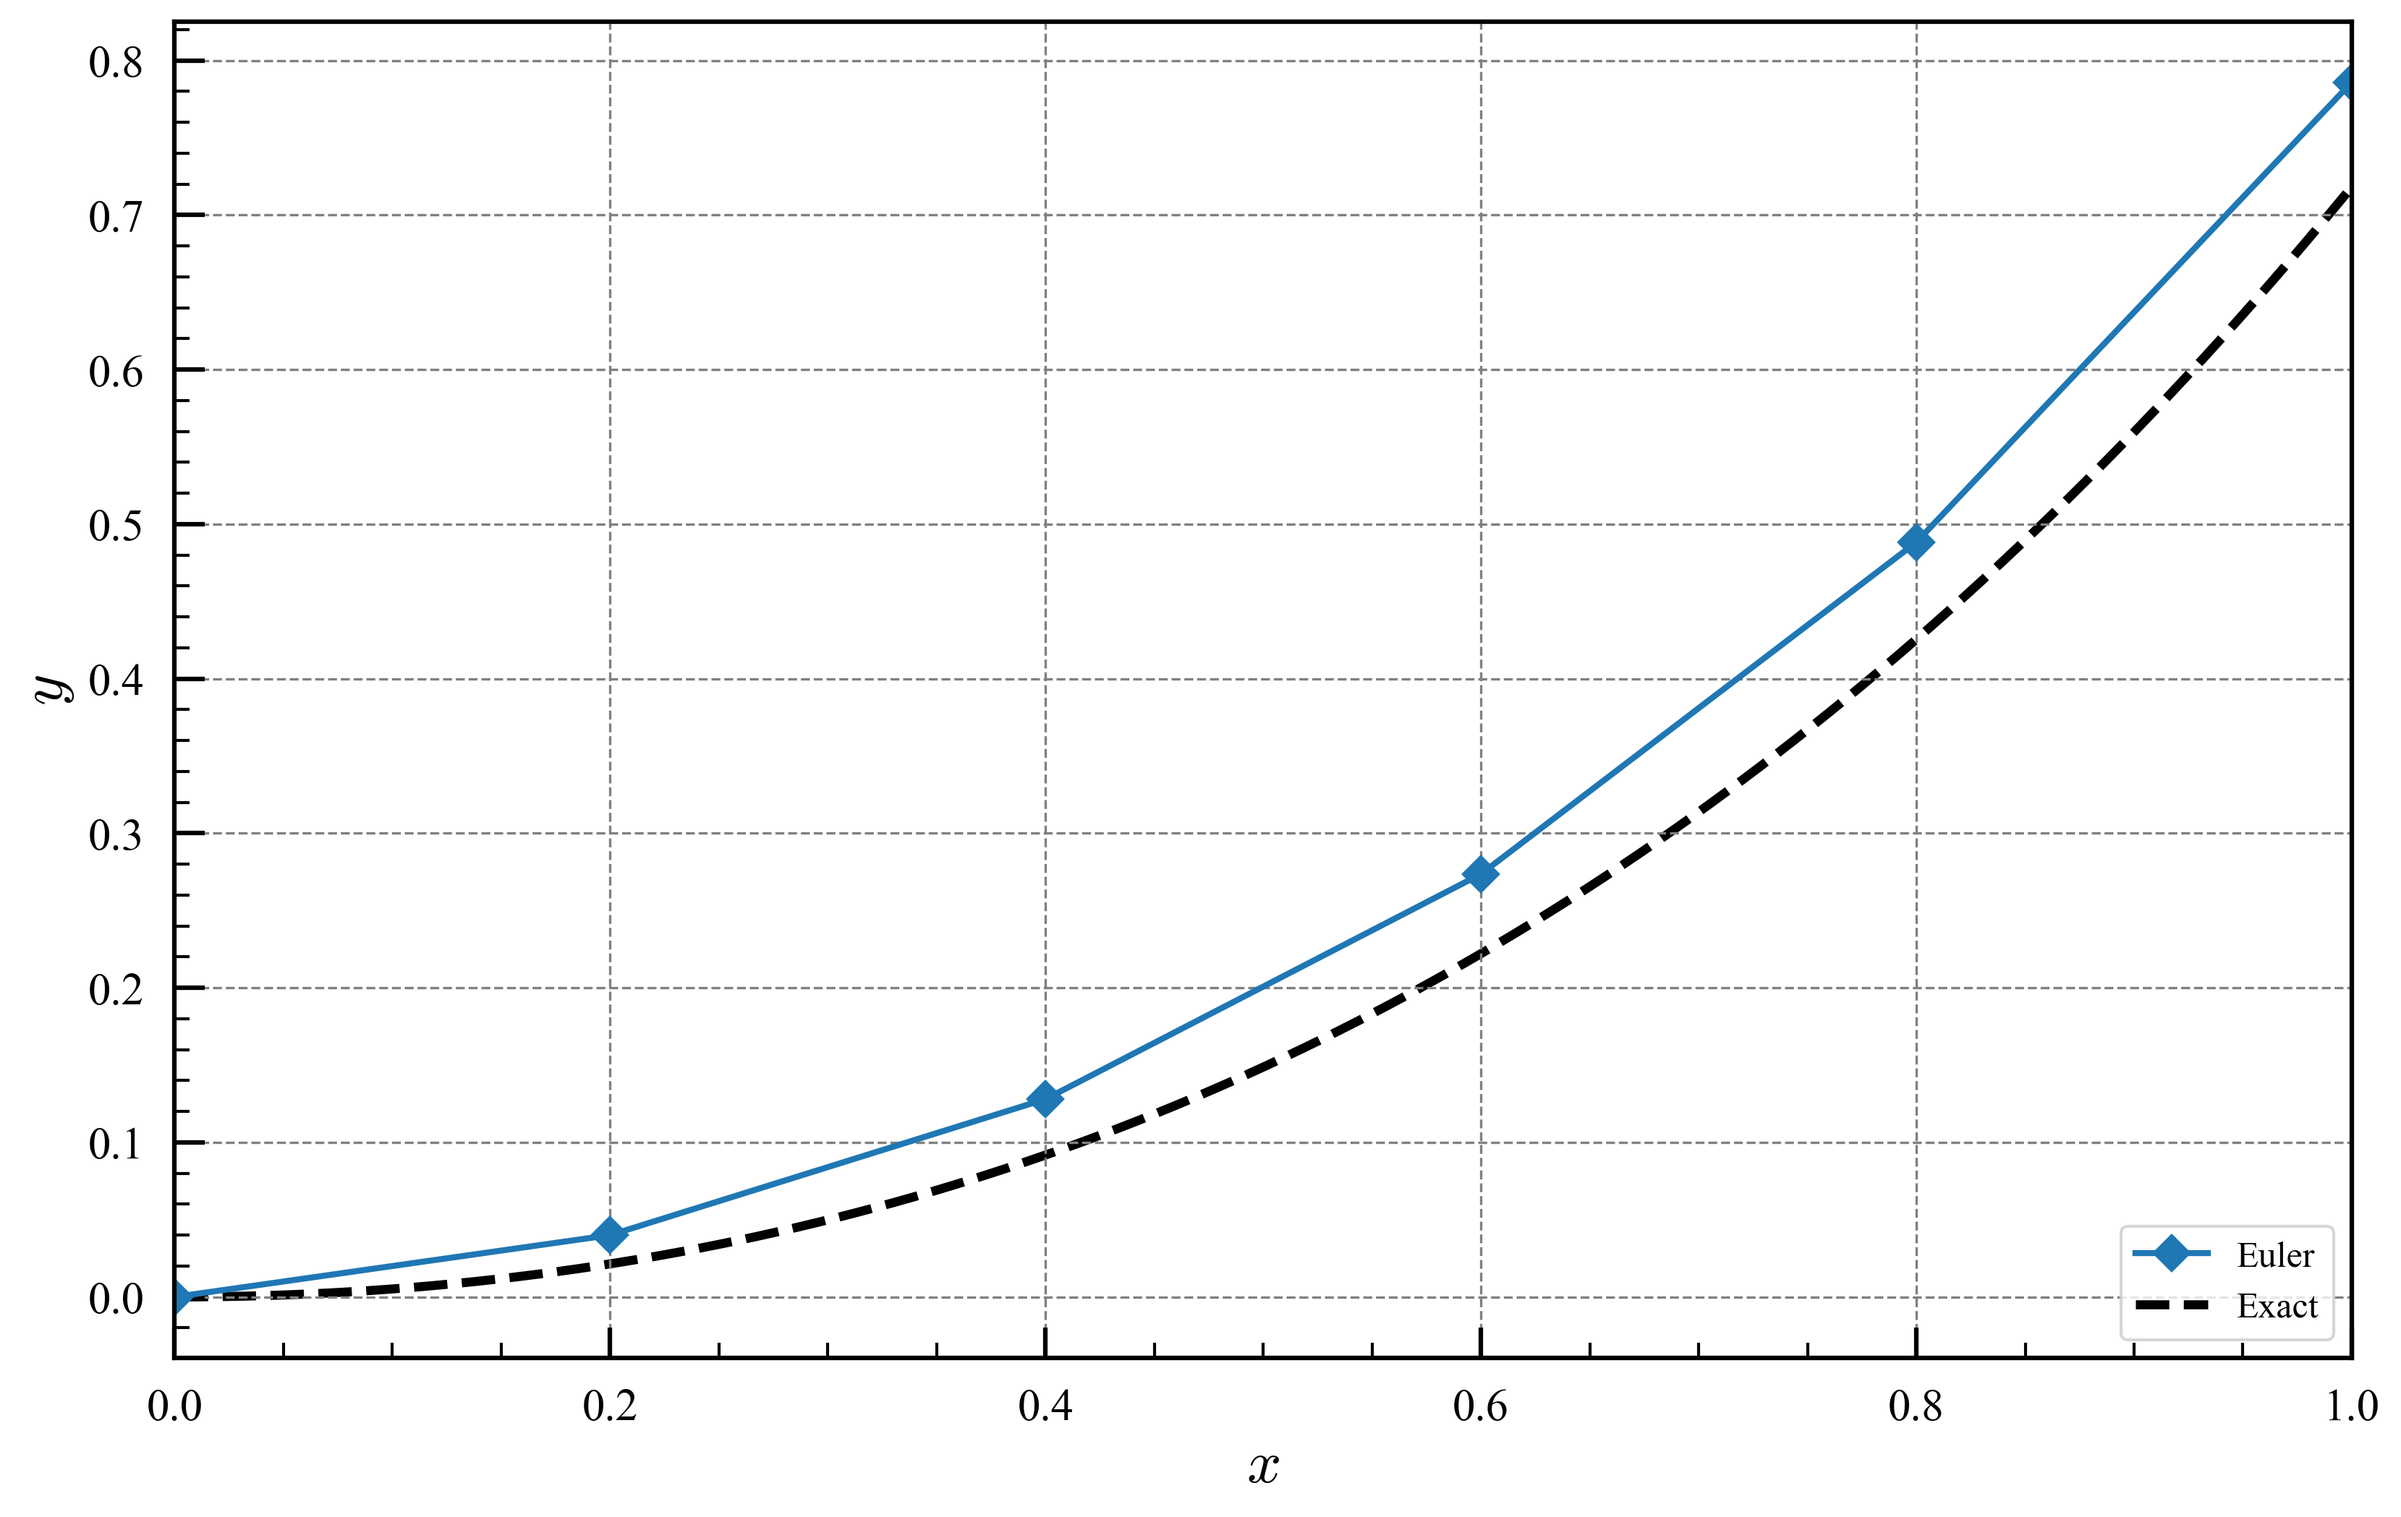
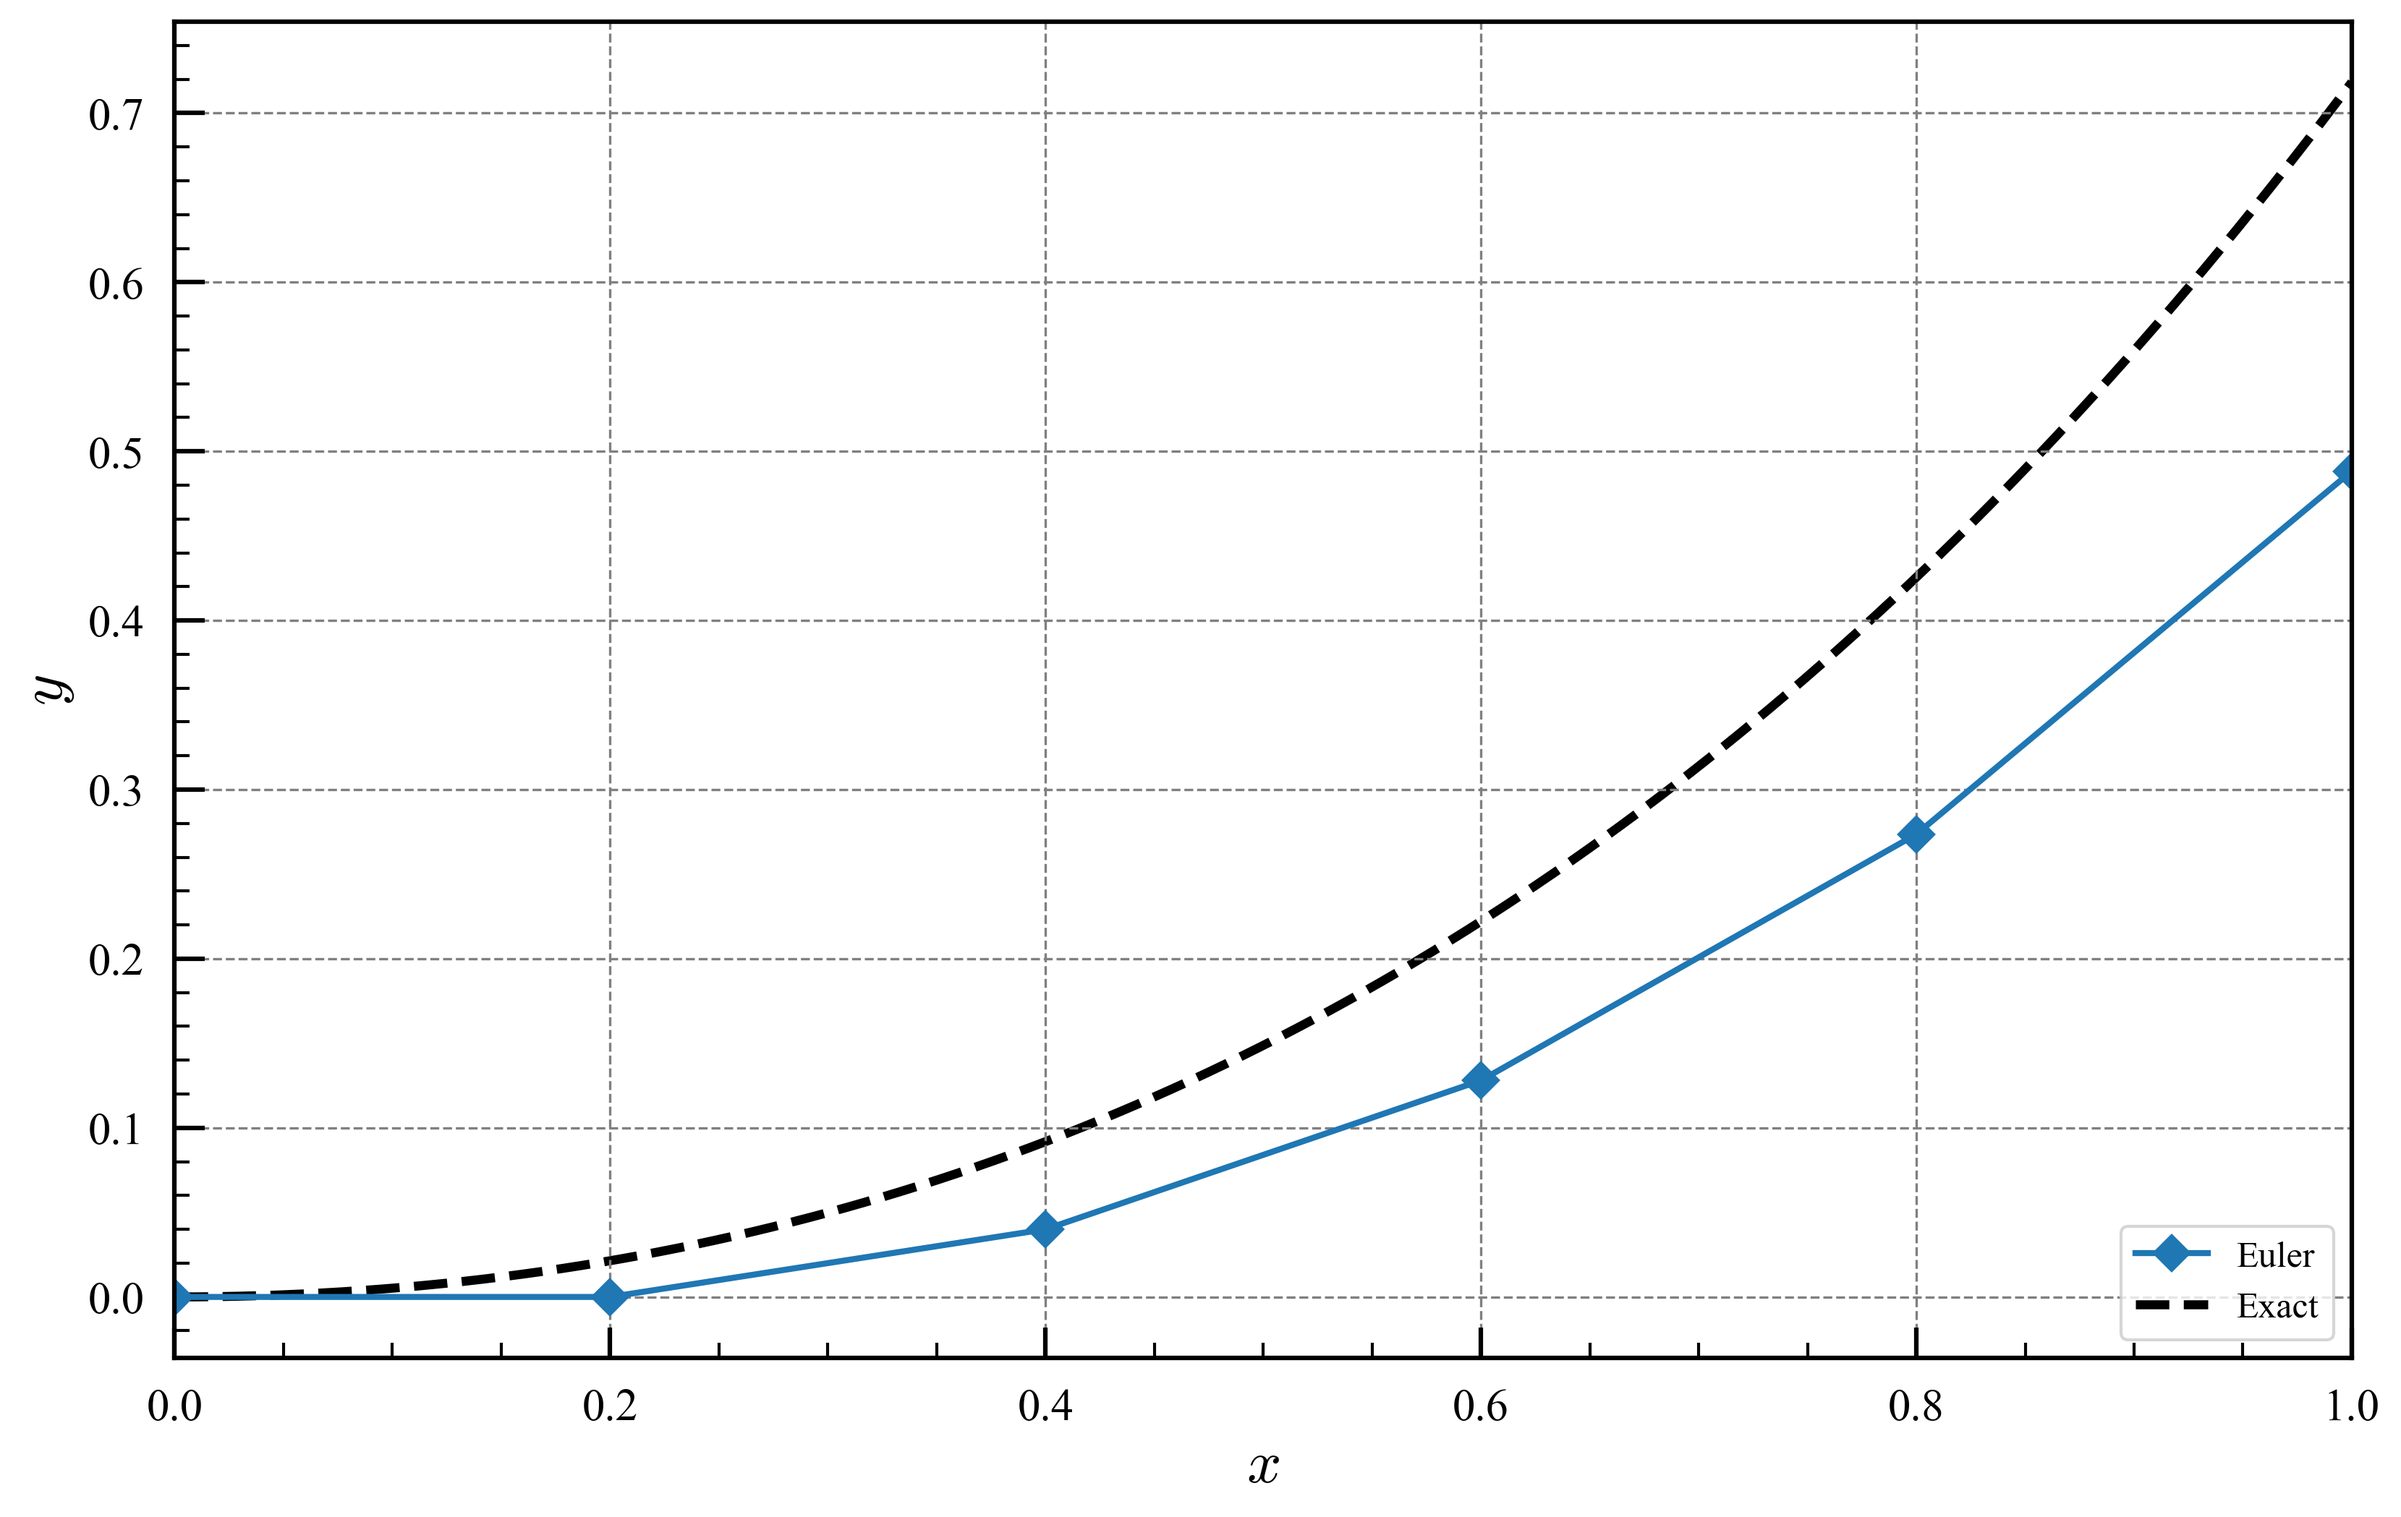
解析解の修正

diff --git a/README.md b/README.md
@@ -2,14 +2,14 @@
 
 ## コンパイル
 [Intel oneAPI](https://www.intel.com/content/www/us/en/developer/tools/oneapi/toolkits.html#gs.hc0791)と[GNU make](https://gnuwin32.sourceforge.net/packages/make.htm)があればコンパイル・実行できます．
-```
+<!-- ```
 make test01
-```
+``` -->
 
-適当なところでクローンして使ってください．
+<!-- 適当なところでクローンして使ってください．
 ```
 git clone https://github.com/ysy307/Lecture.git
-```
+``` -->
 
 
 ## Lecture_01.f90
@@ -750,13 +750,13 @@ N=1000
 漸化式は初期値 $` y(0)=y_0 `$ を用い，$` h = \dfrac{1}{N} `$ とすれば次のようにあらわせる．
 ```math
 \begin{equation*}
-  y(1) = y_0\left(1 + \dfrac{a}{N} + \dfrac{1}{2}\dfrac{a^2}{N^2} \right)^{N-1}
+  y_{i} = y_0\left(1 + \dfrac{a}{N} + \dfrac{1}{2}\dfrac{a^2}{N^2} \right)^{N-1}
 \end{equation*}
 ```
 $` N\rightarrow h `$ とすれば
 ```math
 \begin{equation*}
-  y(1) = y_0\left(1 + ah + \dfrac{1}{2}a^2h^2 \right)^{1/h-1}
+  y_{i} = y_0\left(1 + ah + \dfrac{1}{2}a^2h^2 \right)^{1/h-1}
 \end{equation*}
 ```
 解析解と係数比較すれば
@@ -873,7 +873,7 @@ x   y   Exact
 一般解
 ```math
 \begin{equation*}
-  u(t) = C \exp(2t) - \dfrac{3}{2}t - \dfrac{3}{4}
+  u(t) =7.25\exp(2t - 2) - \dfrac{3}{2}t - \dfrac{3}{4}
 \end{equation*}
 ```
 ```
